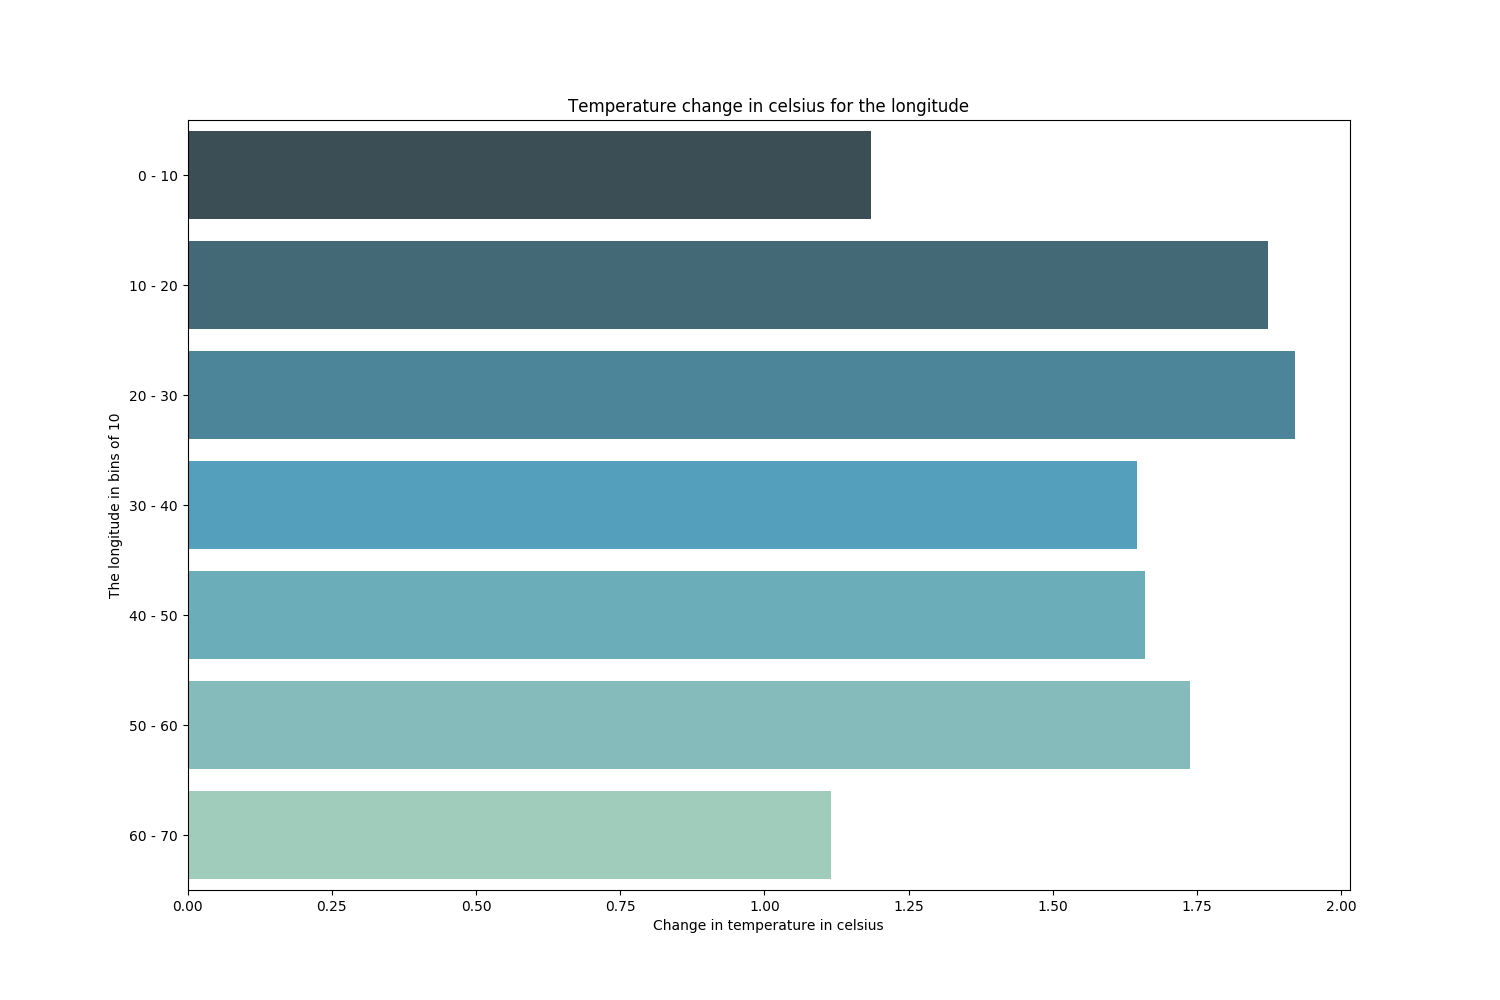
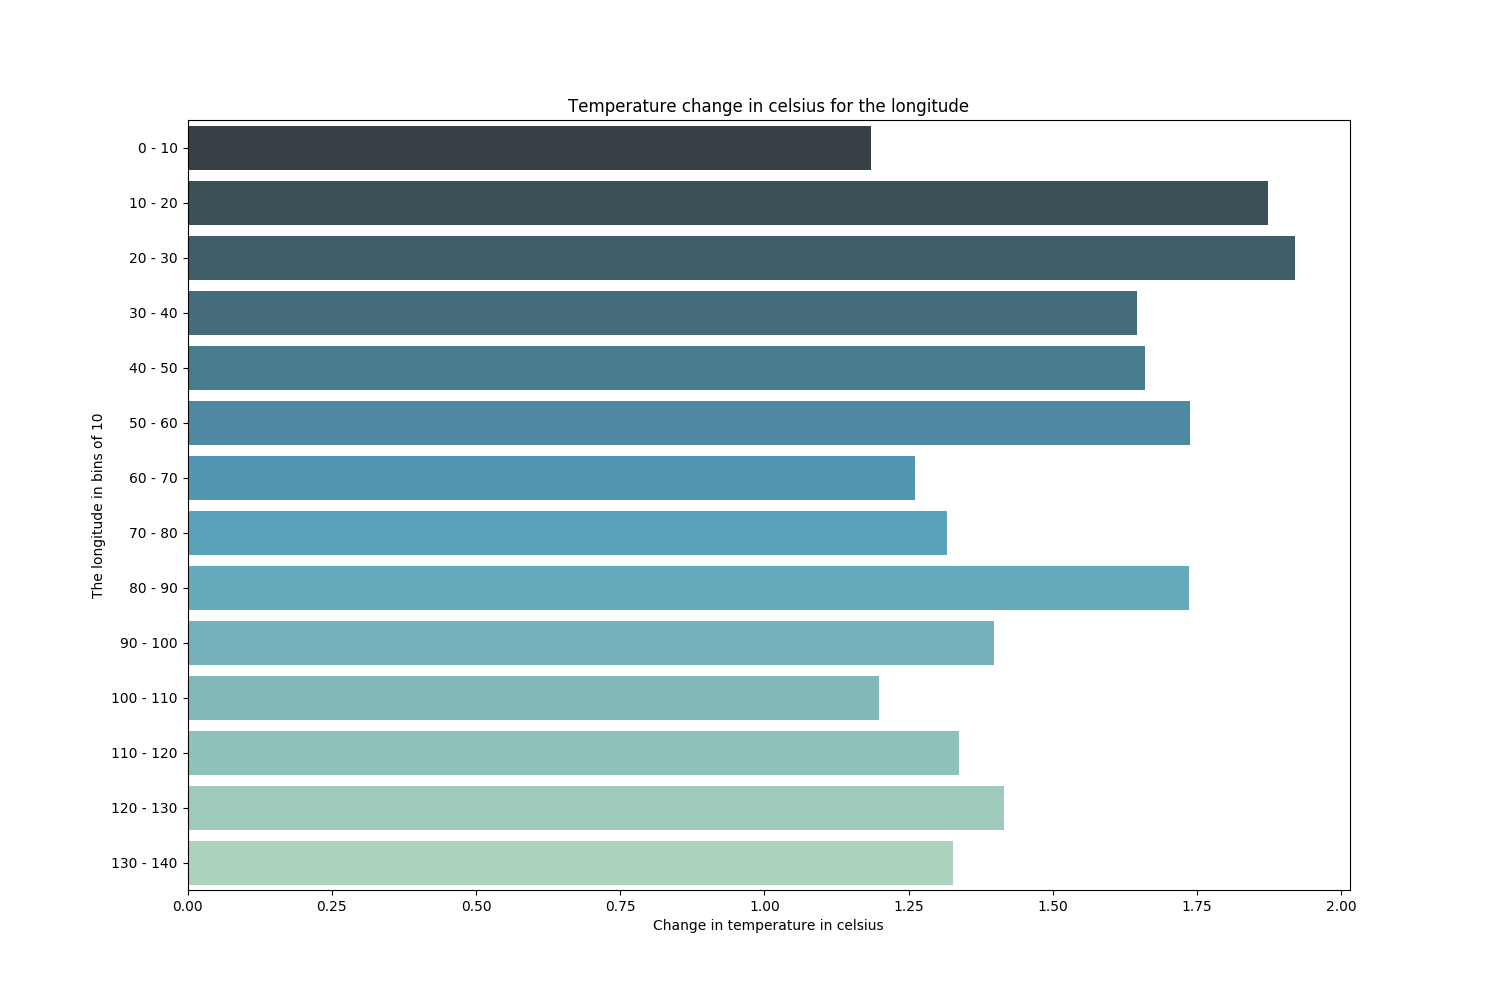
cities in bin

Changed region(s): [[0.0613, 0.124, 0.8893, 0.899], [0.092, 0.186, 0.1227, 0.217]]

diff --git a/main.py b/main.py
@@ -3,6 +3,7 @@ import pandas as pd
 import matplotlib.pyplot as plt
 from scipy import stats
 import seaborn as sns
+import matplotlib
 
 
 def unknown_rows_per_col(col_name):
@@ -214,14 +215,13 @@ if __name__ == '__main__':
     '''
     bin data per latitude and longitude
     '''
-
     #bins = pd.IntervalIndex.from_tuples([(i, i+9.99) for i in np.arange(0, 100, 10)])
 
-    bins = [i for i in np.arange(0, 80, 10)]
+    bins = [i for i in np.arange(0, 150, 10)]
     labels = ['{} - {}'.format(b, b+10) for b in bins[0:-1]]
 
-    data['Latitude_bin'] = pd.cut(pd.to_numeric(data['Latitude'].str[:-2], errors='coerce'), bins=bins, labels=labels)
-    data['Longitude_bin'] = pd.cut(pd.to_numeric(data['Longitude'].str[:-2], errors='coerce'), bins=bins, labels=labels)
+    data['Latitude_bin'] = pd.cut(pd.to_numeric(data['Latitude'].str[:-1], errors='coerce'), bins=bins, labels=labels)
+    data['Longitude_bin'] = pd.cut(pd.to_numeric(data['Longitude'].str[:-1], errors='coerce'), bins=bins, labels=labels)
 
     agg_bin_c_lon = data.loc[(data['City'].isin(cities_in_year)) & (data['year'].isin([1850, 2012]))]\
         .groupby(['year', 'Longitude_bin']).mean()
@@ -231,7 +231,6 @@ if __name__ == '__main__':
 
     agg_bin_c_lon = agg_bin_c_lon.loc[2012, 'AverageTemperature'] - agg_bin_c_lon.loc[1850, 'AverageTemperature']
     agg_bin_c_lat = agg_bin_c_lat.loc[2012, 'AverageTemperature'] - agg_bin_c_lat.loc[1850, 'AverageTemperature']
-    agg_bin_c_lon.sort_values(ascending=False, inplace=True)
 
     plt.subplots(figsize=(15, 10))
     plt.title('Temperature change in celsius for the longitude')
@@ -249,7 +248,6 @@ if __name__ == '__main__':
     plt.savefig('./figures/increase_1850_2012_lat_bin.png')
     plt.clf()
 
-
     agg_bin_c_lat_lon = data.loc[(data['City'].isin(cities_in_year)) & (data['year'].isin([1850, 2012]))] \
         .groupby(['year', 'Longitude_bin', 'Latitude_bin']).mean()
     agg_bin_c_lat_lon = agg_bin_c_lat_lon.loc[2012, 'AverageTemperature'] - agg_bin_c_lat_lon.loc[1850, 'AverageTemperature']
@@ -263,6 +261,50 @@ if __name__ == '__main__':
     plt.xlabel('The longitude in bins of 10')
     plt.ylabel('The latitude in bins of 10')
     plt.savefig('./figures/increase_1850_2012_lat_lon_bin.png')
+    plt.clf()
+
+    '''
+    Distribution plot
+    '''
+    agg_bin_c_lat_c = data.loc[(data['City'].isin(cities_in_year)) & (data['year'].isin([1850, 2012]))]\
+        .groupby(['year', 'Latitude_bin', 'City']).mean().dropna()
+
+    print(agg_bin_c_lat_c)
+
+    for i in labels:
+        print('Bin: {} \n Cities: {}'.format(i, agg_bin_c_lat_c.loc[agg_bin_c_lat_c.index.get_level_values(level = 'Latitude_bin') == i]))
+
+    agg_bin_c_lat_c = agg_bin_c_lat_c.loc[2012, 'AverageTemperature'] - agg_bin_c_lat_c.loc[1850, 'AverageTemperature']
+    agg_bin_c_lat_c = agg_bin_c_lat_c.dropna()
+    agg_bin_c_lat_c = agg_bin_c_lat_c.reset_index(level=['City'], drop=True)
+    agg_bin_c_lat_c = agg_bin_c_lat_c.reset_index(level=['Latitude_bin'])
+    agg_bin_c_lat_c = agg_bin_c_lat_c.groupby('Latitude_bin').size()
+
+    current_palette = matplotlib.colors.hex2color('#86b92e')
+    sns.barplot(agg_bin_c_lat_c.index.values, agg_bin_c_lat_c.values, color=current_palette)
+    plt.xlabel('The latitude in bins of 10')
+    plt.ylabel('The number of occurrences')
+    plt.title('The number of occurrences for the latitude in bins of 10')
+    plt.savefig('./figures/latitude_distribution.png')
+
+    agg_bin_c_lon_c = data.loc[(data['City'].isin(cities_in_year)) & (data['year'].isin([1850, 2012]))] \
+        .groupby(['year', 'Longitude_bin', 'City']).mean().dropna()
+
+    for i in labels:
+        print('Bin: {} \n Cities: {}'.format(i, agg_bin_c_lon_c.loc[agg_bin_c_lon_c.index.get_level_values(level = 'Longitude_bin') == i]))
+
+
+    agg_bin_c_lon_c = agg_bin_c_lon_c.loc[2012, 'AverageTemperature'] - agg_bin_c_lon_c.loc[1850, 'AverageTemperature']
+    agg_bin_c_lon_c = agg_bin_c_lon_c.dropna()
+    agg_bin_c_lon_c = agg_bin_c_lon_c.reset_index(level=['City'], drop=True)
+    agg_bin_c_lon_c = agg_bin_c_lon_c.reset_index(level=['Longitude_bin'])
+    agg_bin_c_lon_c = agg_bin_c_lon_c.groupby('Longitude_bin').size()
+
+    current_palette = matplotlib.colors.hex2color('#86b92e')
+    sns.barplot(agg_bin_c_lat_c.index.values, agg_bin_c_lat_c.values, color=current_palette)
+    plt.xlabel('The longitude in bins of 10')
+    plt.ylabel('The number of occurrences')
+    plt.title('The number of occurrences for the longitude in bins of 10')
+    plt.savefig('./figures/longitude_distribution.png')
 
     print('\nIt works')
-
